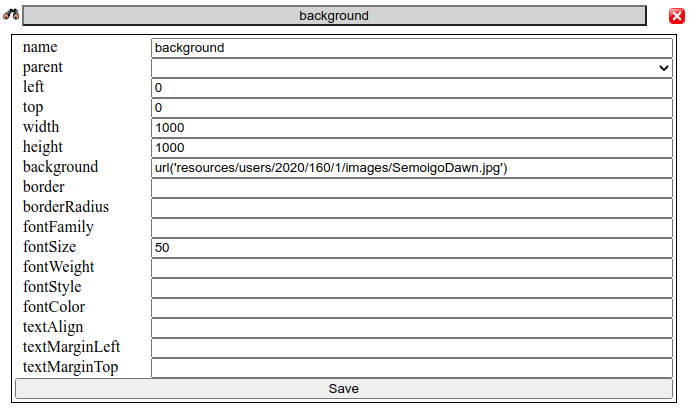
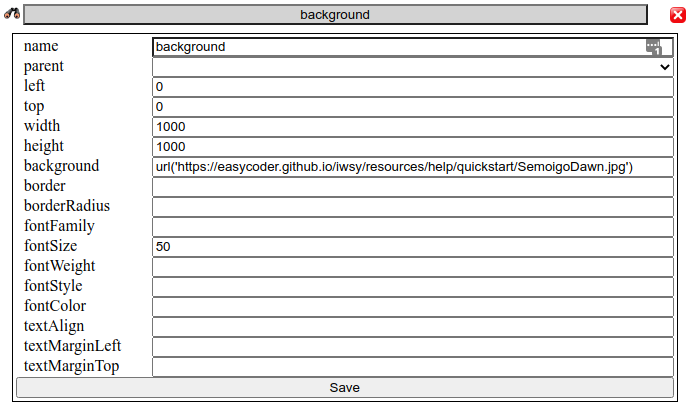
Update help files

Changed region(s): [[0.0, 0.0, 1.0, 0.9706], [0.0, 0.9118, 0.0305, 0.9706]]

diff --git a/iwsy/resources/help/quickstart.md b/iwsy/resources/help/quickstart.md
@@ -14,7 +14,7 @@ Click the **Blocks** button over in the right-hand panel, then click the ~img:/r
 
 ~img:resources/help/quickstart/newblock.png:100%~
 
-Most of these default values are fine as they are; they describe a block that occupies the whole window area. Let's just change the ~m:name~ property to ~m:background~ and the ~m:background~ property to ~m:url('resources/img/quickstart/SemoigoDawn.jpg')~. When the presentation runs, the effect will be to display a full-size image. This is what the panel should look like now:
+Most of these default values are fine as they are; they describe a block that occupies the whole window area. Let's just change the ~m:name~ property to ~m:background~ and the ~m:background~ property to ~m:url('https://easycoder.github.io/iwsy/resources/help/quickstart/SemoigoDawn.jpg')~. When the presentation runs, the effect will be to display a full-size image. This is what the panel should look like now:
 
 ~img:resources/help/quickstart/first-block.png:100%~
 
